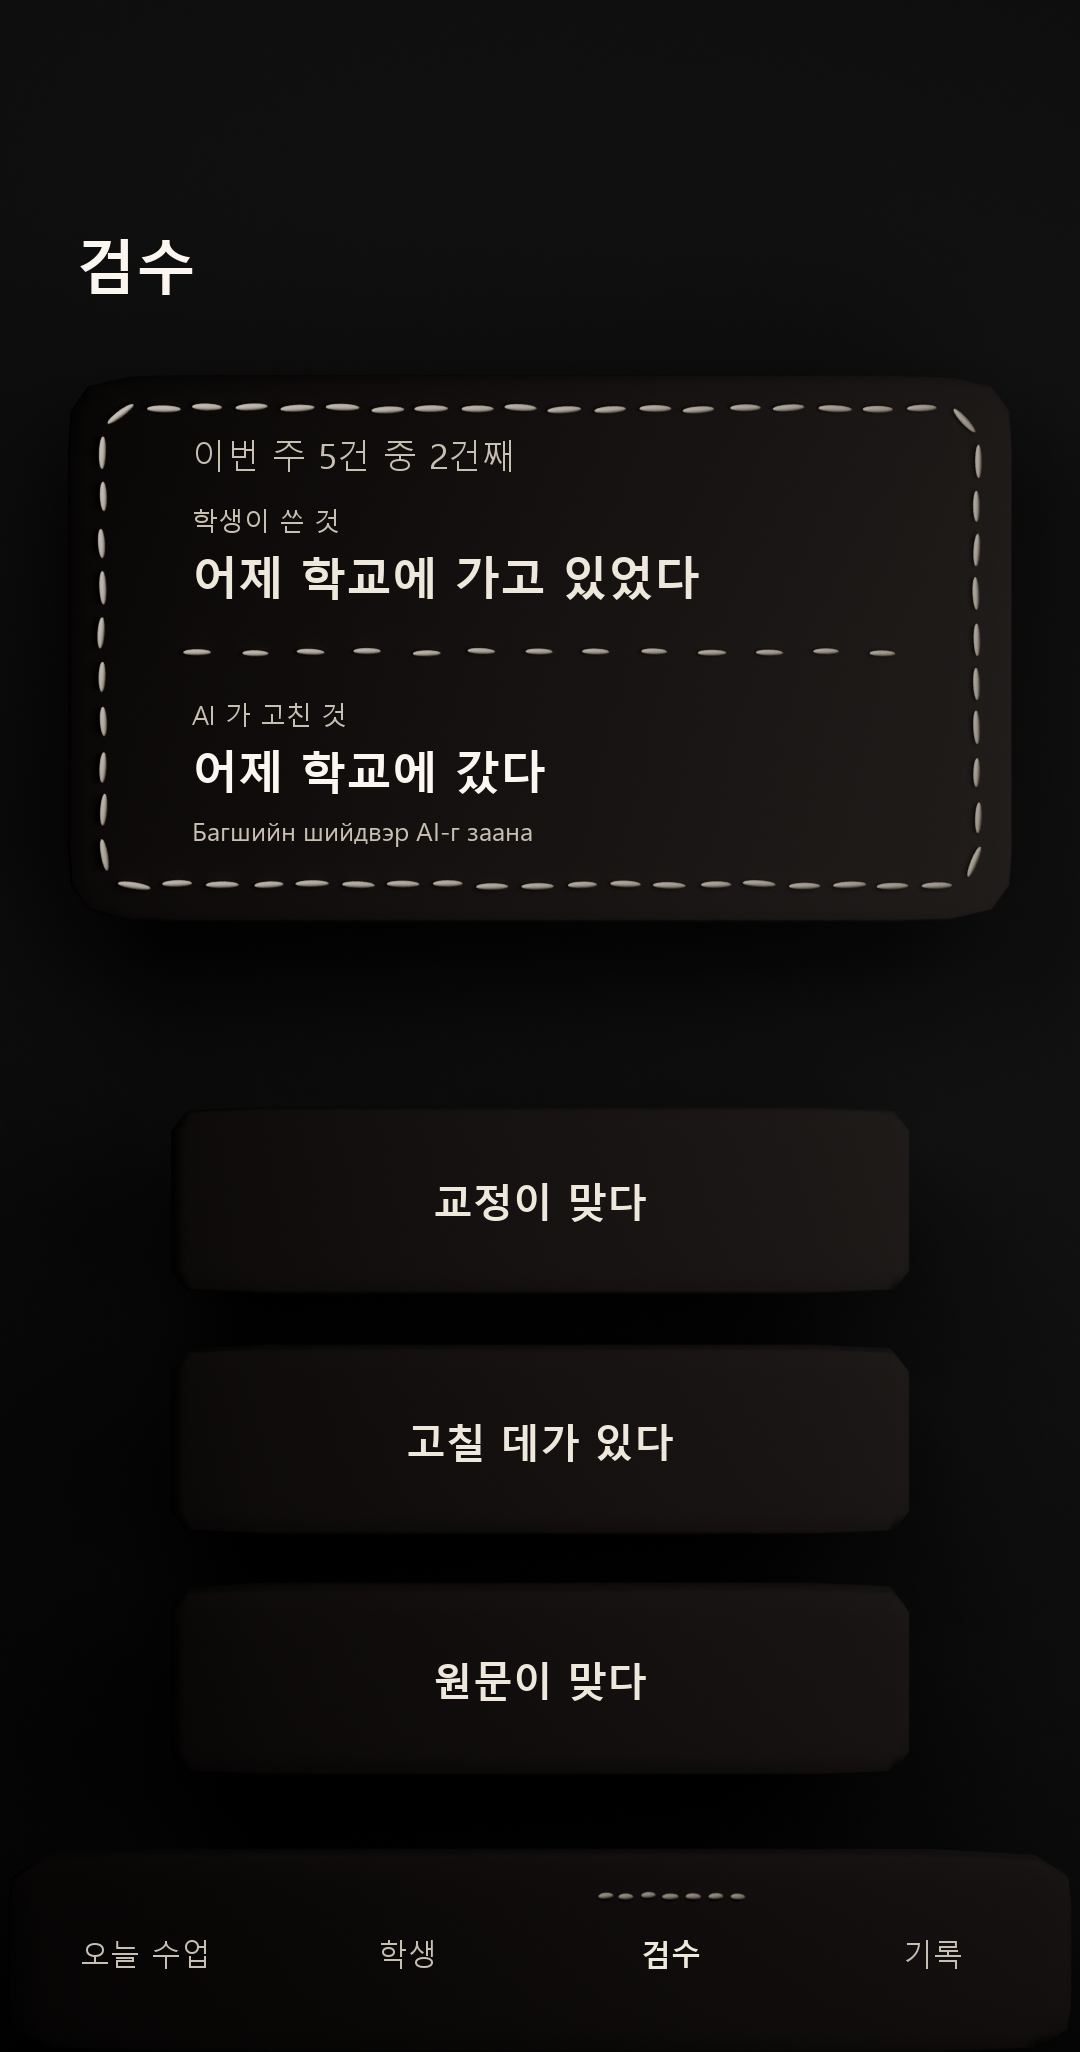
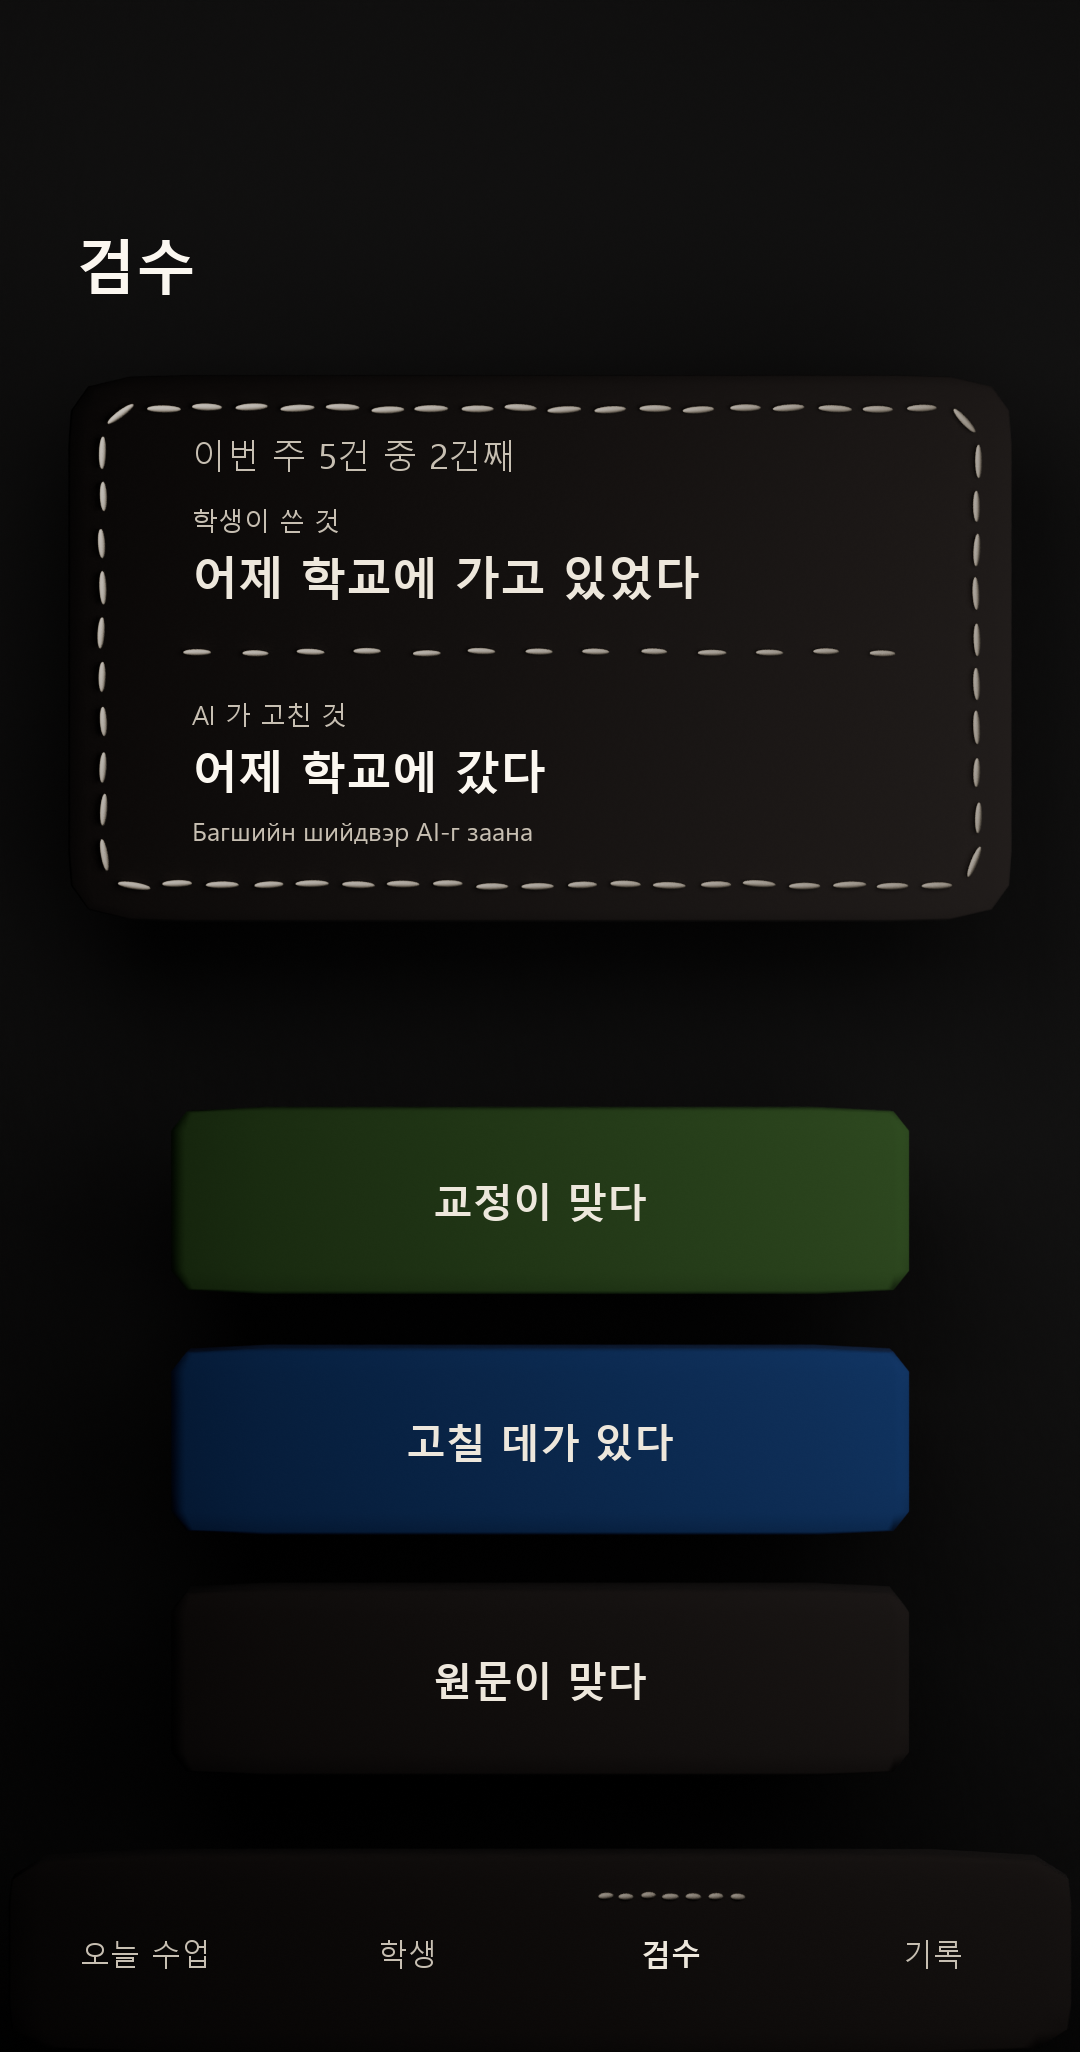
feat: 2027 실을 «뜻»에 묶는다 — 검수 판정 셋에 색이 섰다 (유호 08-23 「색이 단조롭다」)
유호 물음: 「앱 구성할때 너무 색이 단조로운것같은데 2027 컬러 새로 정한거를 좀 활용하는건
어떻게 생각해? 별로인가?」

## 🔴 옳은 지적이고, 게다가 **이미 정해져 있었는데 내가 안 썼다**
`디자인_토큰.json` 의 시맨틱 «다크» 축(유호 확정 08-20 · 조항 ⓚ)에 색 직책이 다 적혀 있다:
안내 = Lapis · 정답/성장 = Meadow · 보상 = Butter · 기념 = Pop, **면 = Deep · 글자 = Soft.**

실측(08-23): 화면 열넷이 쓰는 킷 색은 **6가지뿐**(Ink·Deep Wool·Stone·Oat·Coral 3·Ink Deep)이고
**2027 실 넷은 0가지**다. 확정을 안 쓴 자리였다.

**까닭은 내 오류다** — 명품 4계 ②(한 화면에 «가장 밝은 것»은 하나)를 **「색은 하나」로 잘못 넓혔다.**
휘도 실측이 그것을 반박한다: 실 넷의 Deep 단은 0.064~0.118 로 **신호 코랄(0.308)의 1/3 이하**이고
카드(0.018)보다는 밝다 — 코랄 자리를 안 뺏으면서 «면»으로 읽힌다.

## 그런데 아무 데나 되는 것은 아니었다 — 세 자리를 굽어 갈랐다
| 자리 | 무엇 | 판정 |
|---|---|---|
| **판정 알약**(중간 면 · Deep 단) | 검수 탭의 셋 | ✅ **성공** — 뜻이 색으로 읽힌다 |
| 큰 카드(Deep 단) | 소식 탭 첨삭 카드 | ❌ 실패 — 초록이 화면을 지배하고 **그 위에서 코랄 신호가 죽었다** |
| 작은 실(Soft 단) | 학부모 달력 「말한 날」 | ❌ 실패 — Meadow Soft 가 실 두 가닥에서 «거의 흰색»으로 씻겼다 |

🔑 **뜻 색이 먹는 자리는 «중간 크기의 면»이다.** 큰 면도 작은 선도 아니다.
   · 큰 면 — 4계 ②는 밝기의 규칙이지만 **«면적»도 같은 일을 한다**: 큰 면은 밝지 않아도 눈을 가져간다.
   · 작은 선 — 이 조명에서 밝은 색(Soft 단)은 흰색이 된다(오늘 네 번째로 같은 자리다).

## 집행
· `뜻색()` 헬퍼 신설 — 시맨틱 다크 축을 이름으로 읽는다(hex 중복 금지 · 토큰이 정본).
· **검수 판정 셋**: 교정이 맞다 = 정답(Meadow Deep) · 고칠 데가 있다 = **안내**(Lapis Deep) ·
  원문이 맞다 = 무채. 「고칠 데가 있다」가 «안내»인 까닭은 그것이 틀림이 아니라
  **다음 손이 갈 자리를 가리키는 것**이기 때문이다.
· 실패한 둘은 끄고, 왜 실패했는지를 그 자리 주석에 남겼다(다음 세션이 다시 시도하지 않게).

## 아직 안 쓴 자리 — 유호님 판정 자리
원장 경영의 숫자 칸 넷(신규 = 성장 · 이탈 = 신호)과 학생 소식 줄 넷(공지 = 안내 · 왕관 = 보상 ·
전당 = 기념)이 «중간 면»이라 후보다. 다만 목록 넷이 다 다른 색이면 조잡할 수 있어
**굽어 보고 정할 일**이다 — 이번처럼.
[…]

Changed region(s): [[0.1528, 0.5302, 0.8556, 0.7485]]

diff --git a/docs/화면_시안.html b/docs/화면_시안.html
@@ -848,7 +848,7 @@
       <figcaption><b>학생</b>칭찬 4태그 — <b>개수 4는 불변</b>이다(왕관·크루의 눈의 재료라 하나만 늘어도 두 곳이 흔들린다).</figcaption>
     </figure>
     <figure class="유리 잔잔 화면칸">
[2 lines of base64/hex data omitted]
       <figcaption><b>검수 🔴</b><b>이 앱에서 가장 중요한 화면.</b> Glide 가 폐기되면 강사 판정의 유일한 입구가 죽는다. 판정 셋은 퀴즈의 보기 알약과 같은 부품이다.</figcaption>
     </figure>
     <figure class="유리 잔잔 화면칸">

diff --git a/tools/요소굽기.py b/tools/요소굽기.py
@@ -35,7 +35,23 @@ def 토큰찾기():
         d = 위
 
 토큰길 = 토큰찾기()
-색 = {c['이름']: c['hex'] for c in json.load(open(토큰길, encoding='utf-8'))['색']['킷']}
+_토큰 = json.load(open(토큰길, encoding='utf-8'))
+색 = {c['이름']: c['hex'] for c in _토큰['색']['킷']}
+_시맨틱 = _토큰['색']['시맨틱']['다크']
+
+
+def 뜻색(이름):
+    """**시맨틱 색** — 「어디에 무슨 색」의 정본(`디자인_토큰.json` · 유호 확정 08-20 조항 ⓚ).
+
+    🔴 화면 열넷이 이것을 **하나도 안 쓰고 있었다**(08-23 실측 — 쓰는 킷 색이 6가지뿐이고
+       2027 실 넷은 0). 유호 지적 「앱 색이 너무 단조롭다」의 실물이 그 자리다.
+       까닭은 내가 명품 4계 ②(한 화면에 «가장 밝은 것»은 하나)를 **「색은 하나」로 잘못 넓힌** 것이다.
+    ⚠실측이 그 회피를 반박한다 — 실 넷의 Deep 단은 휘도 0.064~0.118 로 **신호 코랄(0.308)의
+      1/3 이하**다. 코랄 자리를 안 뺏고, 카드(0.018)보다는 밝아 «면»으로 읽힌다.
+    🔑 다크는 라이트 램프를 «반대편에서» 읽는다 — **면 = Deep · 글자 = Soft**(조항 ⓚ).
+       그래서 다크에 «새 실»은 없다. 있는 실을 반대로 잡을 뿐이다.
+    """
+    return 색[_시맨틱[이름]]
 
 def 리니어(hex_):
     h = hex_.lstrip('#')
@@ -3282,7 +3298,7 @@ def 화면부품():
     }
 
 
-def 화면단추(부, cx, cz, 깊이, 꿰맴, 지금=False, r=0.085):
+def 화면단추(부, cx, cz, 깊이, 꿰맴, 지금=False, r=0.085, 실뜻=None):
     """**단추토글** — 이 세계에서 「상태」를 말하는 유일한 부품(유호 픽 08-19).
     성장판 게이지 칸 · 오늘 탭 할 일 · 소식 읽음 · 학부모 출석 격자가 전부 이것 하나다.
     상태가 재질 차이가 아니라 **바느질 유무**로 읽힌다 — 그 정의가 다섯 화면에서 다 통했다.
@@ -3308,7 +3324,10 @@ def 화면단추(부, cx, cz, 깊이, 꿰맴, 지금=False, r=0.085):
         구멍.data.materials.append(부['구멍'])
         부['단추들'].append(구멍)
     if 꿰맴:
-        재 = 부['지금'] if 지금 else 부['실']
+        #   `실뜻` 을 주면 꿰맴 실이 **시맨틱 글자 색**(Soft 단)이 된다 — 실은 면이 아니라 «글자» 쪽이다.
+        #   ⚠뜻이 겹치면 안 쓴다: 꿰맴이 이미 「했다/읽었다」를 말하므로, 실뜻은 그와 «같은 뜻»을
+        #     강화할 때만 쓴다(학부모 달력의 「말한 날」 = 성장 — 꿰맴도 성장, 색도 성장).
+        재 = 부['지금'] if 지금 else (매끈재질('실뜻' + 실뜻, 뜻색(실뜻), 거칠기=0.78) if 실뜻 else 부['실'])
         for (x1, z1, x2, z2) in ((-0.33, 0.33, 0.33, -0.33), (-0.33, -0.33, 0.33, 0.33)):
             각 = math.degrees(math.atan2(z2 - z1, x2 - x1))
             # ⚠X 는 코드상 정확히 (cx, cz) 인데 렌더에선 늘 «왼쪽 1.5px»으로 나온다
@@ -3330,7 +3349,7 @@ def 화면배경():
     return 배경
 
 
-def 화면카드(부, 손, 이름, 천이름, z=1.32, 반높=0.70, 코랄=True):
+def 화면카드(부, 손, 이름, 천이름, z=1.32, 반높=0.70, 코랄=True, 뜻=None):
     """앱 화면의 **큰 그릇** — 이 화면이 무엇을 시키는지가 여기 앉는다.
 
     🔑 일곱 화면이 «가장 큰 것»을 **같은 자리·같은 치수**로 둔다(1.21 × 0.09 × 0.70 · z 1.32).
@@ -3341,8 +3360,11 @@ def 화면카드(부, 손, 이름, 천이름, z=1.32, 반높=0.70, 코랄=True):
        ⚠**왼쪽 정렬이다.** 가운데 두면 «무엇을» 밑줄 치는지가 안 읽힌다 — 글이 왼쪽에서
          시작하므로 밑줄도 거기서 시작해야 한 덩어리가 된다(본문 좌여백 124px 과 같은 선).
     """
+    #   `뜻` 을 주면 카드 천이 **시맨틱 면 색**이 된다(안내·정답·보상·기념 — 조항 ⓚ).
+    #   ⚠글자 대비가 걸리므로 «면»만 물들이고 잉크는 그대로 Paper 다(0.933 vs 최대 0.118).
     카드 = 베개몸((1.21, 0.09, 반높), 위치=(0, 0.5, z), 크리스=0.80, 레벨=4)
-    카드.data.materials.append(직물결(매끈재질(천이름, 색['Ink'], 거칠기=0.95), 규모=180.0, 세기=0.055))
+    카드천 = 뜻색(뜻) if 뜻 else 색['Ink']
+    카드.data.materials.append(직물결(매끈재질(천이름, 카드천, 거칠기=0.95), 규모=180.0, 세기=0.055))
     키제외.append(카드)
     칸들[이름] = 카드
     러닝스티치(둥근사각걷기(1.21 - 0.09, 반높 - 0.09, 0.10, 0.115), 0.40, (0, z),
@@ -3587,6 +3609,9 @@ def 소식판():
     #   오늘판 도전 카드와 **같은 치수·같은 자리**다(1.21×0.09×0.70 · z 1.32). 두 탭에서 가장 큰
     #   것이 같은 자리에 서야 탭 전환이 «화면이 바뀌는» 것으로 읽힌다 — 자리가 갈리면 앱이 갈린다.
     카드z = 1.32
+    # ⚠**큰 면에 뜻 색을 넣어 봤고 실패했다**(08-23 시안). Meadow Deep 카드는 화면의 절반이라
+    #   초록이 화면을 지배했고, 그 위에서 **코랄 신호가 죽었다.** 4계 ②는 밝기의 규칙이지만
+    #   «면적»도 같은 일을 한다 — 큰 면은 밝지 않아도 눈을 가져간다.
     카드 = 화면카드(부, 손, '새소식', '첨삭카드', 카드z)
 
     # ── ② 소식 넷 — 안 읽은 둘이 위, 읽은 둘이 아래 ────────────────────────────────
@@ -3678,6 +3703,9 @@ def 우리아이판():
         for 열, 상태 in enumerate(주):
             if 상태 == 0:
                 continue
+            # ⚠**작은 실에 Soft 단을 넣어 봤고 실패했다**(08-23 시안) — Meadow Soft(#D3E8BE)가
+            #   실 두 가닥에서는 «거의 흰색»으로 씻겼다. X 가 또렷해지긴 했으나 «성장»이라는
+            #   뜻은 전달되지 않는다. 이 조명에서 밝은 색은 흰색이 된다(오늘 네 번째 자리).
             화면단추(부, 첫열 + 열간격 * 열, 첫행 - 행간격 * 행, 달력깊이, 꿰맴=(상태 == 2))
     앵 = 베개몸((abs(첫열), 0.02, 행간격 * 1.5), 위치=(0, 0.55, 첫행 - 행간격 * 1.5), 크리스=0.9)
     앵.hide_render = True                # 단추 «중심»들의 바운딩 박스 — 글자 층이 이것만 받는다
@@ -3892,9 +3920,15 @@ def 검수판():
     # ── ② 판정 셋 — 조합판 보기 알약과 같은 부품 ────────────────────────────
     #   ⚠조합판은 z −0.16/−0.86/−1.56 인데 그 아래끝(−1.80)이 탭바 윗면과 정확히 겹친다.
     #     강사 탭바도 같은 자리라 간격을 0.62 로 좁혀 올린다(아래끝 −1.58).
+    #   🔑 **판정 셋은 뜻이 셋이라 색이 셋이다** — 시맨틱이 이미 그 셋을 갖고 있다
+    #      (정답 Meadow Deep · 안내 Lapis Deep · 신호 Coral 3). 「고칠 데가 있다」가 «안내»인 까닭은
+    #      그것이 틀림이 아니라 **다음 손이 갈 자리를 가리키는 것**이기 때문이다.
+    #   ⚠셋 다 어둡다(0.064~0.118) — 코랄 신호(0.308)를 안 넘으므로 4계 ②가 안 깨진다.
+    알천 = ['정답_면', '안내_면', None]     # None = 무채(원문이 맞다 = 아무 일도 안 일어난다)
     for 번, z in enumerate((-0.10, -0.72, -1.34)):
         알 = 베개몸((0.95, 0.1, 0.24), 위치=(0, 0.55, z), 크리스=0.62)
-        알.data.materials.append(직물결(매끈재질('알약천', 색['Ink'], 거칠기=0.95), 규모=160.0, 세기=0.04))
+        천 = 뜻색(알천[번]) if 알천[번] else 색['Ink']
+        알.data.materials.append(직물결(매끈재질('알약천', 천, 거칠기=0.95), 규모=160.0, 세기=0.04))
         키제외.append(알)          # 가운데 알약에 키 하이라이트가 앉으면 대비가 깨진다(조합판 실측)
         칸들['판정%d' % 번] = 알
     화면탭바(손, 지금탭=2, 탭수=4)
